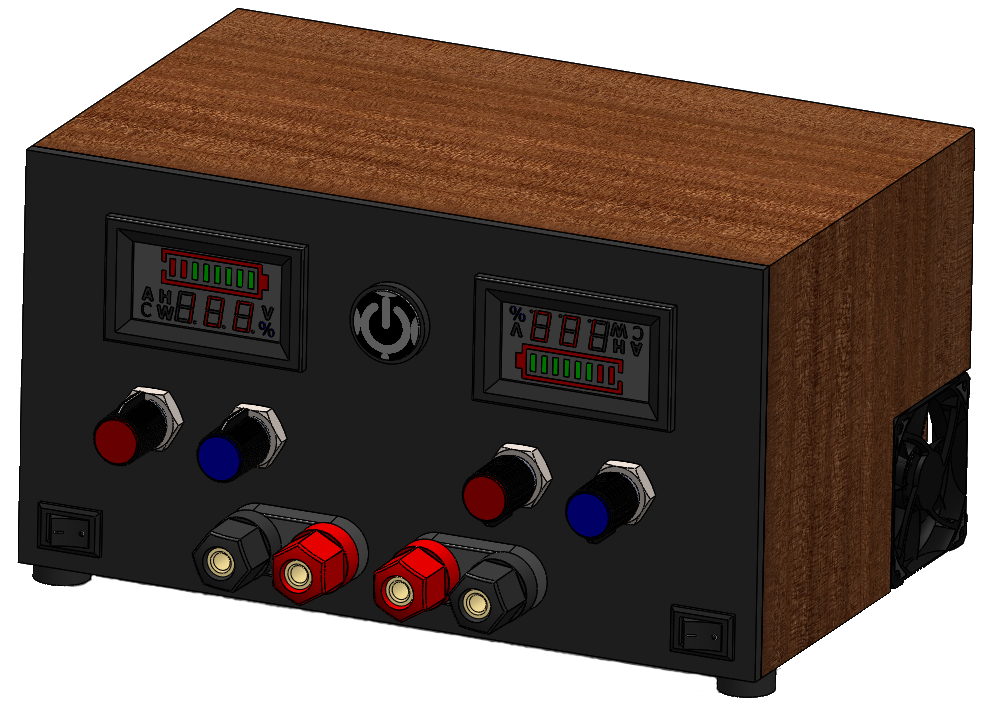
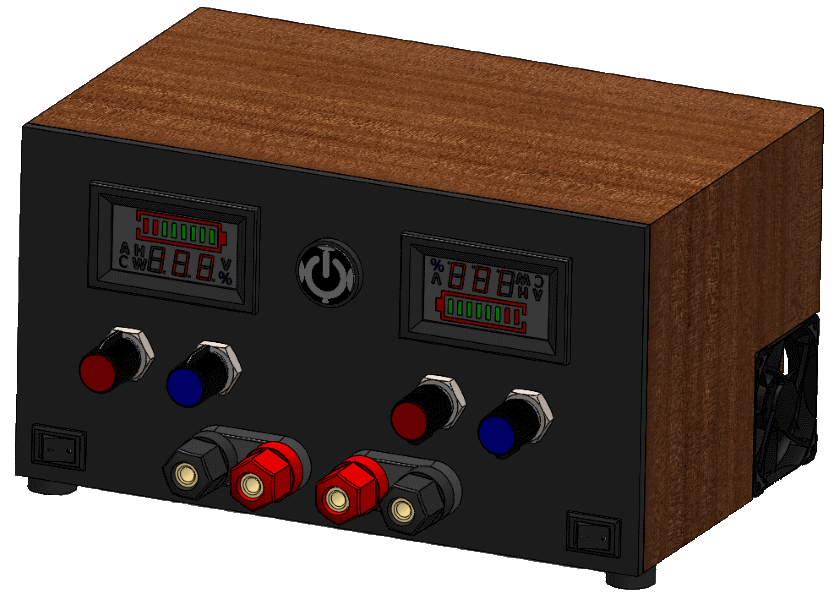
Testing image resizing for better performance

diff --git a/js/misc_hobby.js b/js/misc_hobby.js
@@ -3,25 +3,25 @@ var albums = {
 			"<img src=\"img/Misc_Hobby/Wilmake/Wilmake.png\"><p>SolidWorks Model</p>"
 		],
 		"VArm": [
-			"<img src=\"img/Misc_Hobby/VArm/VArm1.png\"><p>Finished Build</p>",
-			"<img src=\"img/Misc_Hobby/VArm/Test.png\"><p>Test Subject</p>",
-			"<img src=\"img/Misc_Hobby/VArm/VArm2.png\"><br><br><p>User Mounted</p>",
-			"<img src=\"img/Misc_Hobby/VArm/VArm3.png\"><br><br><p>User Mounted</p>",
-			"<img src=\"img/Misc_Hobby/VArm/PCB.png\"><p>PCB</p>",
-			"<img src=\"img/Misc_Hobby/VArm/Valves.png\"><p>Valve System</p>",
-			"<img src=\"img/Misc_Hobby/VArm/Integration.png\"><p>System Integration</p>",
-			"<img src=\"img/Misc_Hobby/VArm/Valve_System.png\"><p>Valve Flow Diagram</p>"
+			"<img src=\"img/Misc_Hobby/VArm/VArm1.jpg\"><p>Finished Build</p>",
+			"<img src=\"img/Misc_Hobby/VArm/Test.jpg\"><p>Test Subject</p>",
+			"<img src=\"img/Misc_Hobby/VArm/VArm2.jpg\"><br><br><p>User Mounted</p>",
+			"<img src=\"img/Misc_Hobby/VArm/VArm3.jpg\"><br><br><p>User Mounted</p>",
+			"<img src=\"img/Misc_Hobby/VArm/PCB.jpg\"><p>PCB</p>",
+			"<img src=\"img/Misc_Hobby/VArm/Valves.jpg\"><p>Valve System</p>",
+			"<img src=\"img/Misc_Hobby/VArm/Integration.jpg\"><p>System Integration</p>",
+			"<img src=\"img/Misc_Hobby/VArm/Valve_System.jpg\"><p>Valve Flow Diagram</p>"
 		],
 		"Ambilight": [
-			"<img src=\"img/Misc_Hobby/Ambilight/Ambilight.png\"><p>System Launch</p>",
-			"<img src=\"img/Misc_Hobby/Ambilight/Connections.png\"><p>System Launch</p>"
+			"<img src=\"img/Misc_Hobby/Ambilight/Ambilight.jpg\"><p>System Launch</p>",
+			"<img src=\"img/Misc_Hobby/Ambilight/Connections.jpg\"><p>System Launch</p>"
 		],
 		"Misc": [
-			"<img src=\"img/Misc_Hobby/Misc/Computer_Inside.png\"><p>Inside My Computer</p>",
-			"<img src=\"img/Misc_Hobby/Misc/Computer.png\"><p>Outside My Computer</p>",
-			"<img src=\"img/Misc_Hobby/Misc/Desk.png\"><p>Desk</p>",
+			"<img src=\"img/Misc_Hobby/Misc/Computer_Inside.jpg\"><p>Inside My Computer</p>",
+			"<img src=\"img/Misc_Hobby/Misc/Computer.jpg\"><p>Outside My Computer</p>",
+			"<img src=\"img/Misc_Hobby/Misc/Desk.jpg\"><p>Desk</p>",
 			"<img src=\"img/Misc_Hobby/Misc/PowerSupply.png\"><p>Dual Supply Adjustable PSU</p>",
-			"<img src=\"img/Misc_Hobby/Misc/3D_Printer.png\"><p>Old 3D Printer</p>"
+			"<img src=\"img/Misc_Hobby/Misc/3D_Printer.jpg\"><p>Old 3D Printer</p>"
 		]
 
 }

diff --git a/js/analytics.js b/js/analytics.js
@@ -1,7 +1,7 @@
 var albums = {
 		"MakeModel": [
-			"<img src=\"img/Analytics/Cars/MakeModelComparison.png\"><p>Model Comparison</p>",
-			"<img src=\"img/Analytics/Cars/Results.png\"><p>Best New Car Models</p>"
+			"<img src=\"img/Analytics/Cars/MakeModelComparison.jpg\"><p>Model Comparison</p>",
+			"<img src=\"img/Analytics/Cars/Results.jpg\"><p>Best New Car Models</p>"
 		],
 		"PriceBot": [
 			"<img src=\"img/Analytics/PriceBot/Cars_Output.svg\"><p>Merged Honda Civic Results</p>",
@@ -9,7 +9,7 @@ var albums = {
 			"<img src=\"img/Analytics/PriceBot/Houses_Output.svg\"><p>House Results</p>"
 		],
 		"House": [
-			"<img src=\"img/Analytics/House/Typical.png\"><p>Typical Scenario</p>",
+			"<img src=\"img/Analytics/House/Typical.jpg\"><p>Typical Scenario</p>",
 			"<img src=\"img/Analytics/House/Loan_Options.png\"><p>Loan Options</p>",
 			"<img src=\"img/Analytics/House/Rental_Income.png\"><p>Rental Income</p>",
 			"<img src=\"img/Analytics/House/IRA_Contributions.png\"><p>IRA Investments</p>"

diff --git a/_pages/carestream.html b/_pages/carestream.html
@@ -47,7 +47,7 @@ icon: dashboard
                   <h4 style="color:#8a8d93" class="block-header">
                     <span style="float:left"> Automation Test Lead </span>
                     <span>&nbsp;</span>
-                    <span class="block-subheader" style="float:right"> 05/23/16 - 02/10/2017 </span>
+                    <span class="block-subheader" style="float:right"> 05/23/2016 - 02/10/2017 </span>
                   </h4>
 
                   <table class="table table-striped table-sm">
